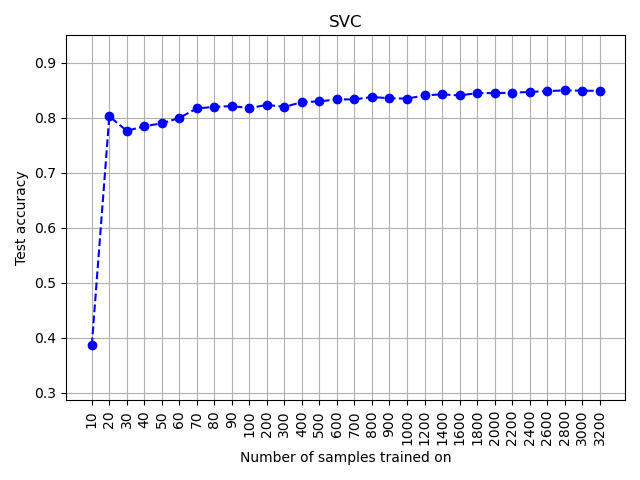
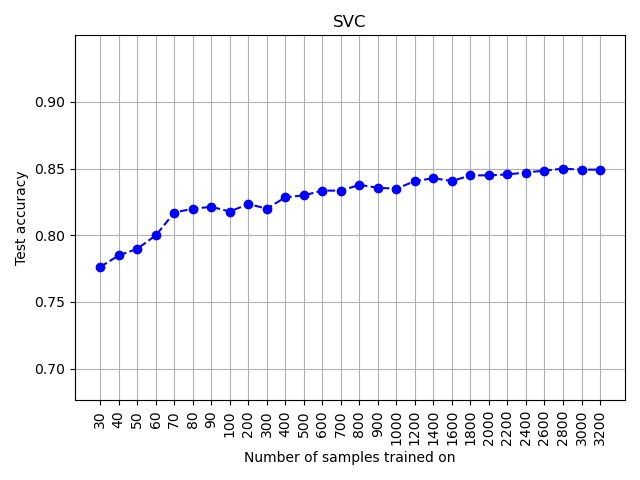
add acc plots for classfiers in readme

Changed region(s): [[0.0312, 0.0938, 0.9688, 0.9688], [0.5, 0.0312, 0.5625, 0.0625]]

diff --git a/transfer_learning.py b/transfer_learning.py
@@ -48,7 +48,7 @@ if __name__ == "__main__":
     linear_accuracies = []
     knn_accuracies = []
 
-    sample_range = chain(range(10, 100, 10), range(100, 1000, 100), range(1000, len(train_embeddings), 200))
+    sample_range = chain(range(30, 100, 10), range(100, 1000, 100), range(1000, len(train_embeddings), 200))
     for n in tqdm(list(sample_range)):
         # Fit models
         X_train = train_embeddings.iloc[:n, 2:]

diff --git a/README.md b/README.md
@@ -158,7 +158,7 @@ We compute the center for each class and show the 5 closest images and the 5 fur
 ![Closest and furthest away samples in class 5](close_faraway_closeotherclass_class_5.png)
 
 ## Task 8
-To generate accuracy plots for this task, run `transfer_learning.py`. We load the previously computed embeddings of the unseen classes from `embeddings_unseen.pkl` and split this into training and test data. Using more and more of the training data, we fit three classifiers:
+To generate accuracy plots for this task, run `transfer_learning.py`. We load the previously computed embeddings of the unseen classes from `embeddings_unseen.pkl` and split this into training (70%) and test (30%) data. Using more and more of the training data, we fit three classifiers and evaluate them on the test data:
 
 - Support Vector Classifier
 - Linear Classifier
